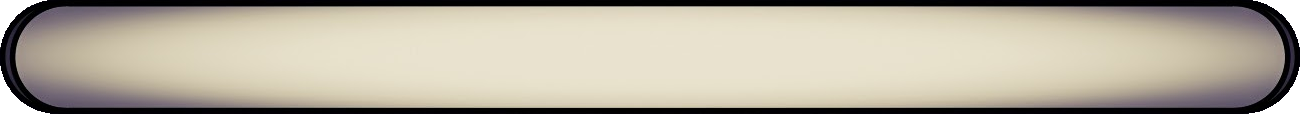
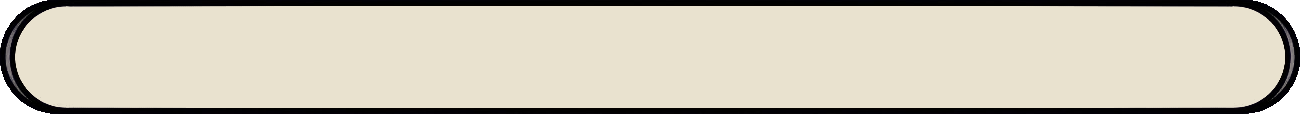
finished implementing new UI design

diff --git a/AuctionAlert_Swift/ViewController.swift b/AuctionAlert_Swift/ViewController.swift
@@ -30,6 +30,7 @@ class ViewController: UIViewController {
     var objectBG: UIImageView!
     var priceBG: UIImageView!
     var itemLabelBG: UIImageView!
+    var objectLHS: UIImageView!
     
     // MARK: - UIViewController Methods
 
@@ -64,6 +65,10 @@ class ViewController: UIViewController {
         view.endEditing(true)
     }
     
+    override func preferredStatusBarStyle() -> UIStatusBarStyle {
+        return UIStatusBarStyle.LightContent
+    }
+    
     // MARK: - Custom Methods
     
     /*
@@ -90,7 +95,7 @@ class ViewController: UIViewController {
         logoImageView = UIImageView(image: UIImage(named: "Goblin_Logo"))
         view.addSubview(logoImageView!)
         
-        bottomBackground = UIImageView(image: UIImage(named: "BottomBG.jpg"))
+        bottomBackground = UIImageView(image: UIImage(named: "BottomBG"))
         view.addSubview(bottomBackground!)
         
         titleImage = UIImageView(image: UIImage(named: "AATitle"))
@@ -98,6 +103,9 @@ class ViewController: UIViewController {
         
         objectBG = UIImageView(image: UIImage(named: "ObjectFieldBG"))
         view.addSubview(objectBG!)
+        
+        objectLHS = UIImageView(image: UIImage(named: "ObjectFieldLHS"))
+        view.addSubview(objectLHS!)
         
         realmLabel = AALabel(textStr: "Realm: \(userDefaults.stringForKey(realmKey)!)")
         realmLabel.textAlignment = .Left
@@ -148,12 +156,7 @@ class ViewController: UIViewController {
         view.addSubview(deleteButton!)
         
         resultsTable = AATableView()
-        resultsTable.dataSource = self
-        resultsTable.delegate = self
-        resultsTable.rowHeight = battleIconWidth
-        resultsTable.backgroundView = UIImageView(image: UIImage(named: "TableBG"))
-        resultsTable.registerClass(SearchResultCell.self, forCellReuseIdentifier: "SearchResultCell")
-        resultsTable.registerClass(SearchListCell.self, forCellReuseIdentifier: "SearchListCell")
+        setupTable()
         view.addSubview(resultsTable!)
         
         activityIndicator = UIActivityIndicatorView()
@@ -169,6 +172,16 @@ class ViewController: UIViewController {
         // TODO: Remove temporary debugging code
         objectEntry.text = "silk cloth"
         priceEntry.text = "10"
+    }
+    
+    func setupTable () {
+        
+        resultsTable.dataSource = self
+        resultsTable.delegate = self
+        resultsTable.rowHeight = battleIconWidth
+        resultsTable.backgroundView = UIImageView(image: UIImage(named: "TableBG"))
+        resultsTable.registerClass(SearchResultCell.self, forCellReuseIdentifier: "SearchResultCell")
+        resultsTable.registerClass(SearchListCell.self, forCellReuseIdentifier: "SearchListCell")
     }
     
     /*
@@ -227,6 +240,11 @@ class ViewController: UIViewController {
                                 width: viewWidth,
                                 height: standardControlHeight)
         
+        objectLHS.frame = CGRect(x: 0, 
+                                 y: CGRectGetMaxY(realmLabel.frame),
+                                 width: 3*standardControlHeight, // 3 = width/height
+                                 height: standardControlHeight)
+        
         let priceBGWidth: CGFloat = 1.8*standardControlHeight // 1.8 is the width/height ratio of the price background (76/42)
         
         priceBG.frame = CGRect(x: CGRectGetMaxX(objectBG.frame) - priceBGWidth,
@@ -244,7 +262,7 @@ class ViewController: UIViewController {
                                   width: priceBGWidth - 2*margin,
                                   height: standardControlHeight)
         
-        let itemLabelWidth: CGFloat = 2.89*standardControlHeight // 2.89 is the width/height ratio of the item label (306/106)
+        let itemLabelWidth: CGFloat = itemLabel.intrinsicContentSize().width + 2*margin
         
         itemLabel.frame = CGRect(x: 0,
                                  y: CGRectGetMaxY(realmLabel.frame),

diff --git a/AuctionAlert_Swift/SettingsVC.swift b/AuctionAlert_Swift/SettingsVC.swift
@@ -10,6 +10,7 @@ import UIKit
 
 class SettingsVC: UIViewController {
     
+    var backgroundImage: UIImageView!
     var doneButton: AAButton!
     var regionLabel: AALabel!
     var localeLabel: AALabel!
@@ -19,6 +20,8 @@ class SettingsVC: UIViewController {
     var realmSpinner: UIPickerView!
     let regions: Array = ["EU", "US", "KR", "TW"] //, "CN"] currently unsupported by battle.net
     let languages: Array = ["en", "de", "es", "fr", "it", "pt", "ru", "ko", "zh"]
+    
+    // MARK: - UIViewController Methods
     
     override func viewDidLoad() {
         super.viewDidLoad()
@@ -35,6 +38,12 @@ class SettingsVC: UIViewController {
         super.viewWillTransitionToSize(size, withTransitionCoordinator: coordinator)
         positionObjectsWithinSize(size)
     }
+    
+    override func preferredStatusBarStyle() -> UIStatusBarStyle {
+        return UIStatusBarStyle.Default
+    }
+    
+    // MARK: - Custom Methods
     
     /*
      * setupView()
@@ -54,7 +63,12 @@ class SettingsVC: UIViewController {
      * Add objects to the view
      */
     func addObjects() {
+        
+        backgroundImage = UIImageView(image: UIImage(named: "MainBG.jpg"))
+        view.addSubview(backgroundImage)
+        
         regionLabel = AALabel(textStr: "Region")
+        regionLabel.textColor = secondaryTextColor
         view.addSubview(regionLabel)
         
         regionControl = AASegmentedControl(items: regions, handler: self, selector: #selector(regionSegmentTapped))
@@ -62,6 +76,7 @@ class SettingsVC: UIViewController {
         view.addSubview(regionControl)
         
         localeLabel = AALabel(textStr: "Language")
+        localeLabel.textColor = secondaryTextColor
         view.addSubview(localeLabel)
         
         languageControl = AASegmentedControl(items: languages, handler: self, selector: #selector(languageSegmentTapped))
@@ -69,15 +84,18 @@ class SettingsVC: UIViewController {
         view.addSubview(languageControl)
         
         realmLabel = AALabel(textStr: "Realm")
+        realmLabel.textColor = secondaryTextColor
         view.addSubview(realmLabel)
         
         realmSpinner = UIPickerView()
         realmSpinner.delegate = self
         realmSpinner.dataSource = self
-        realmSpinner.tintColor = primaryTextColor
+        realmSpinner.tintColor = secondaryTextColor
         view.addSubview(realmSpinner)
         
         doneButton = AAButton(title: "Done", handler: self, selector: #selector(doneButtonTapped))
+        doneButton.setTitleColor(secondaryTextColor, forState: .Normal)
+        doneButton.layer.borderColor = secondaryTextColor.CGColor
         view.addSubview(doneButton!)
     }
     
@@ -94,6 +112,11 @@ class SettingsVC: UIViewController {
         let viewHeight : CGFloat = size.height
         let viewWidth : CGFloat = size.width
         let margin: CGFloat = (viewWidth + viewHeight)/100
+        
+        backgroundImage.frame = CGRect(x: 0, 
+                                       y: 0, 
+                                       width: viewWidth, 
+                                       height: viewHeight)
         
         doneButton.frame = CGRect(x: (viewWidth - standardControlWidth)/2,
                                   y: viewHeight - standardControlHeight - margin,

diff --git a/AuctionAlert_Swift/GlobalFunctions.swift b/AuctionAlert_Swift/GlobalFunctions.swift
@@ -88,6 +88,7 @@ extension UIColor {
  */
 let primaryColor = UIColor(hexString: "#515151")
 let primaryTextColor = UIColor(hexString: "#FFFFFF")
+let secondaryTextColor = UIColor(hexString: "#000000")
 let accentColor = UIColor(hexString: "#40371A")
 let primaryAttentionColor = UIColor(hexString: "#8CF205")
 let secondaryAttentionColor = UIColor(hexString: "#96BF3C")

diff --git a/AuctionAlert_Swift/AAButton.swift b/AuctionAlert_Swift/AAButton.swift
@@ -32,7 +32,6 @@ class AAButton: UIButton {
      */
     func setupStandards() {
         setTitleColor(primaryTextColor, forState: .Normal)
-//        setBackgroundImage(UIImage(color: accentColor), forState: .Normal)
         layer.cornerRadius = 5
         layer.borderWidth = 2
         layer.borderColor = primaryTextColor.CGColor

diff --git a/AuctionAlert_Swift/AASegmentedControl.swift b/AuctionAlert_Swift/AASegmentedControl.swift
@@ -35,6 +35,6 @@ class AASegmentedControl: UISegmentedControl {
      * Sets up attributes considered standard or default for this application
      */
     func setupStandards() {
-        tintColor = primaryTextColor
+        tintColor = secondaryTextColor
     }
 }
